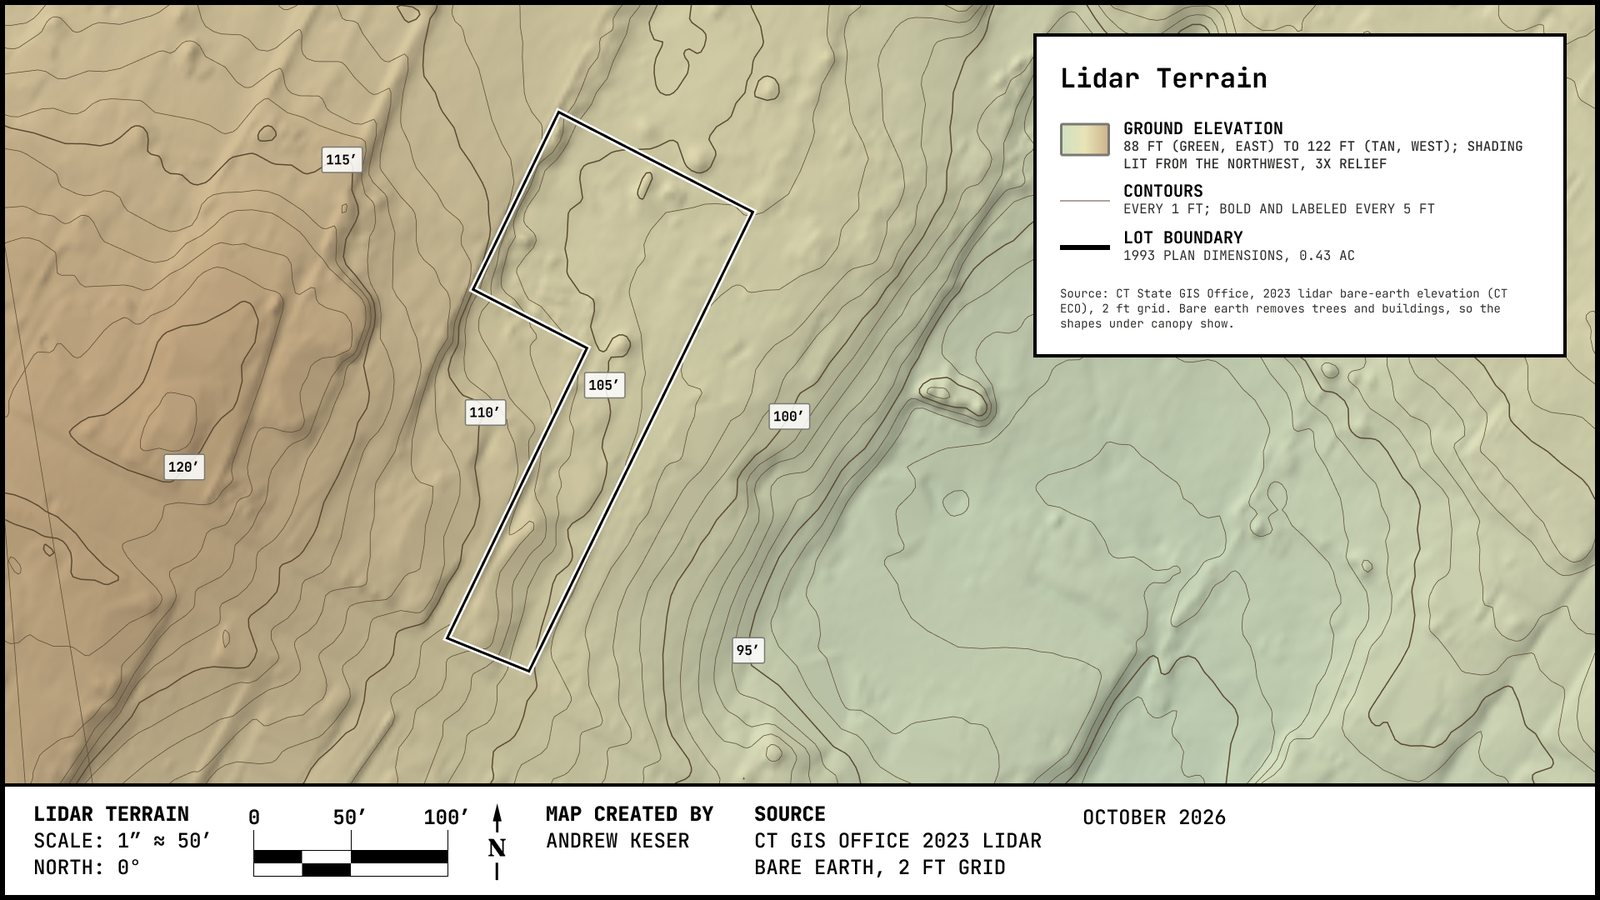
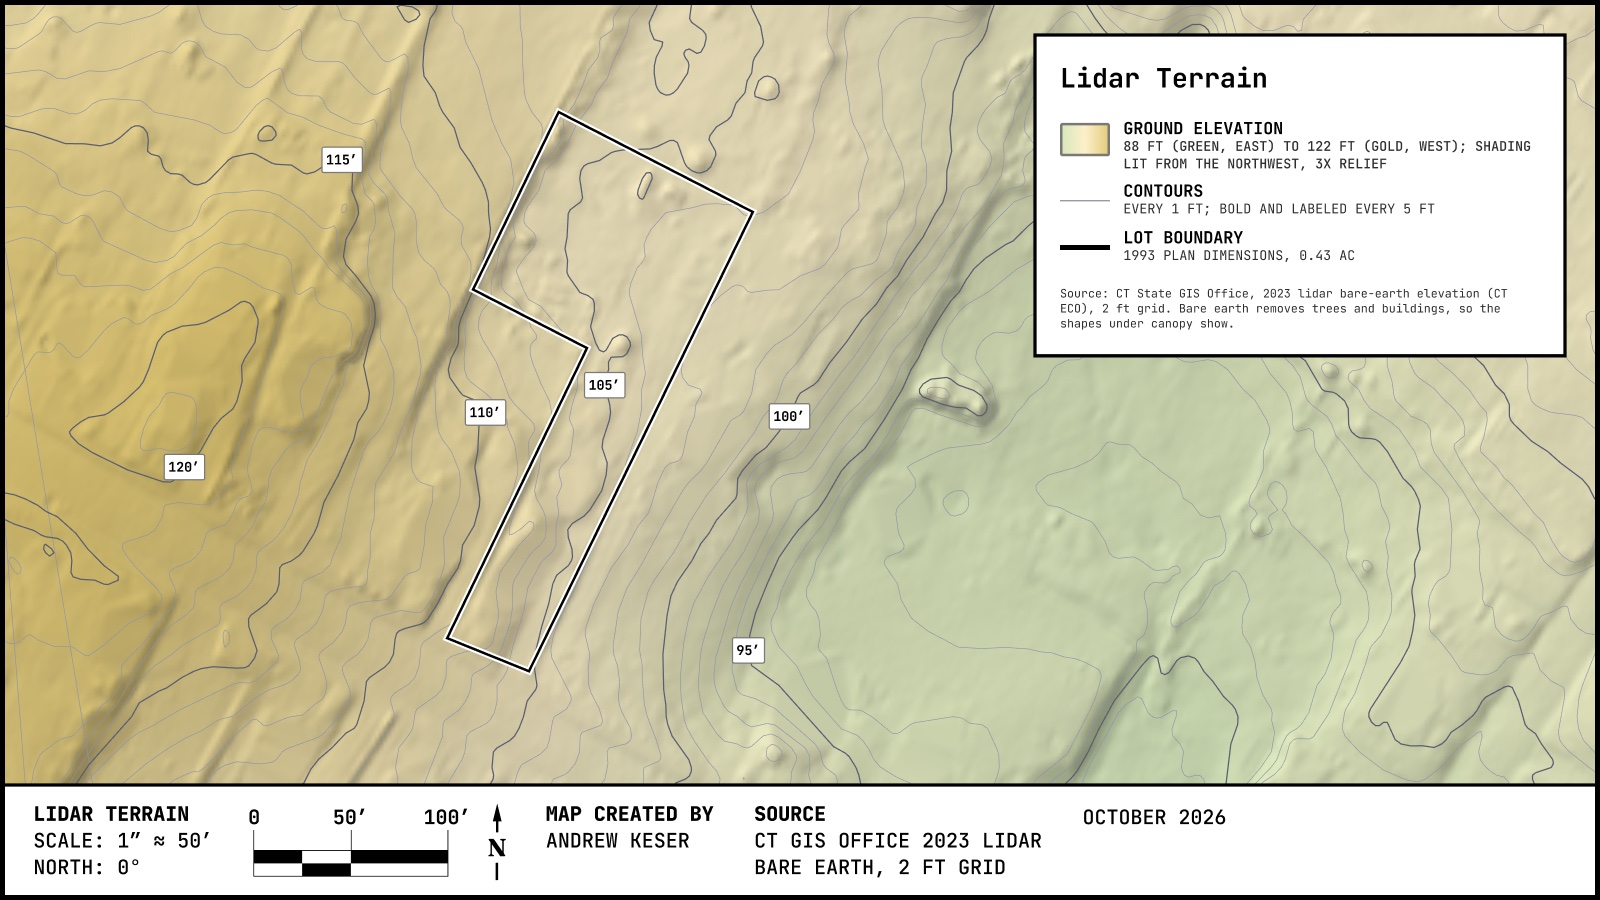
Map Semantic tokens: one color per map scale for rasters and keys
tokens/map.json mirrors Figma's new Map Semantic collection (sun, vigor,
terrain scales aliased to the Ramps); tools/tokens.py resolves it for
Python renders. S1's elevation tint and contours move onto the Ramps.

diff --git a/tools/tests/test_tokens.py b/tools/tests/test_tokens.py
@@ -1,0 +1,54 @@
+import json
+import sys
+from pathlib import Path
+
+import pytest
+
+sys.path.insert(0, str(Path(__file__).resolve().parent.parent))
+
+import tokens
+
+
+def write_root(tmp_path, ramps, **collections):
+    d = tmp_path / "design-language/tokens"
+    d.mkdir(parents=True)
+    (d / "ramps.json").write_text(json.dumps(ramps))
+    for name, toks in collections.items():
+        (d / f"{name}.json").write_text(json.dumps({"tokens": toks}))
+    return tmp_path
+
+
+def test_single_mode_token_resolves_through_ramps_in_every_mode(tmp_path):
+    root = write_root(tmp_path, {"gold/100": "#f2dfa1"}, map={"sun/full-sun": "gold/100"})
+    assert tokens.rgb("map", "sun/full-sun", root=root) == (0xF2, 0xDF, 0xA1)
+    assert tokens.rgb("map", "sun/full-sun", "dark", root=root) == (0xF2, 0xDF, 0xA1)
+
+
+def test_two_mode_token_picks_the_mode(tmp_path):
+    root = write_root(tmp_path, {"sage/400": "#849f55", "sage/500": "#698436"},
+                      species={"layer/shrub": {"light": "sage/500", "dark": "sage/400"}})
+    assert tokens.hex("species", "layer/shrub", root=root) == "#698436"
+    assert tokens.hex("species", "layer/shrub", "dark", root=root) == "#849f55"
+
+
+def test_unknown_token_names_itself(tmp_path):
+    root = write_root(tmp_path, {}, map={})
+    with pytest.raises(KeyError, match="map: no token sun/nope"):
+        tokens.rgb("map", "sun/nope", root=root)
+
+
+def test_token_pointing_off_the_ramps_names_the_step(tmp_path):
+    root = write_root(tmp_path, {}, map={"terrain/high": "gold/950"})
+    with pytest.raises(KeyError, match="gold/950"):
+        tokens.rgb("map", "terrain/high", root=root)
+
+
+def test_every_map_token_resolves():
+    for name in json.loads((tokens.ROOT / "design-language/tokens/map.json").read_text())["tokens"]:
+        assert len(tokens.rgb("map", name)) == 3
+
+
+def test_map_tokens_match_the_rasters_they_replaced():
+    assert tokens.hex("map", "sun/shade") == "#414655"  # slate/700, shade_build's old SHADOW_RGB
+    assert tokens.hex("map", "vigor/dense") == "#516920"  # sage/600
+    assert tokens.hex("map", "terrain/contour-index") == "#595e72"  # slate/600, as on the terrain sheet

diff --git a/tools/tokens.py b/tools/tokens.py
@@ -1,0 +1,38 @@
+#!/usr/bin/env python3
+"""Read design-token colors for raster renders, resolved through the Ramps.
+
+    import tokens
+    tokens.rgb("map", "sun/full-sun")              # (242, 223, 161)
+    tokens.hex("species", "layer/shrub", "dark")   # "#849f55"
+
+A collection is design-language/tokens/<name>.json: {"tokens": {name: step}} for one mode, or
+{name: {"light": step, "dark": step}} for two. Each step is a key in ramps.json, which mirrors
+the Figma Ramps collection. Figma is the source of truth; these files mirror it so Python rasters
+and Figma keys share one color per meaning instead of copying hex.
+"""
+import json
+from functools import lru_cache
+from pathlib import Path
+
+ROOT = Path(__file__).resolve().parent.parent
+
+
+@lru_cache(maxsize=None)
+def _load(root, name):
+    return json.loads((Path(root) / "design-language/tokens" / f"{name}.json").read_text())
+
+
+def hex(collection, name, mode="light", root=ROOT):
+    toks = _load(root, collection)["tokens"]
+    if name not in toks:
+        raise KeyError(f"{collection}: no token {name}")
+    step = toks[name] if isinstance(toks[name], str) else toks[name][mode]
+    ramps = _load(root, "ramps")
+    if step not in ramps:
+        raise KeyError(f"{collection}: {name} points to {step}, which is not in ramps.json")
+    return ramps[step]
+
+
+def rgb(collection, name, mode="light", root=ROOT):
+    h = hex(collection, name, mode, root)
+    return tuple(int(h[i:i + 2], 16) for i in (1, 3, 5))

diff --git a/design-language/plans/2026-10-24-map-semantic-tokens.md b/design-language/plans/2026-10-24-map-semantic-tokens.md
@@ -1,0 +1,57 @@
+# Map Semantic tokens and token QA
+
+Status: built 2026-10-24.
+
+## Why
+
+A token QA after the context map set found map color scales defined as hex copies. The Python
+build scripts held one copy and the Figma keys another, with the Ramps step only in a comment. The
+sun-hours scale was written out twice (shade and roof solar), and S1's contours had already
+drifted: the map lines were `#5b4a32` and the key swatch `#5c4a33`. Neither color was on the Ramps.
+
+## Decisions
+
+| Question | Chosen | Why |
+|---|---|---|
+| Alias the other map color systems? | **Yes, for scales shared by a raster and a key, or by two sheets.** Not one token per map. | That is where copies drift. Per-map tokens would only rename the Ramps. |
+| External palettes (USDA hardiness zones, colors sampled from the 1990 CIR photo) | **Stay raw**, with their source noted | They describe outside data; snapping them to the Ramps would misrepresent it. |
+| S1 elevation tint (owner, 2026-10-24) | **Moves onto the Ramps:** sage/100 → gold/50 → gold/200 | Compared with sage/100 → gold/50 → amber/200 (high ground turns peach) and sage/50 → gold/100 → amber/100 (turns pink). gold/200 keeps the low-green, high-gold look closest to the old tan. |
+| Contour color | **Slate, as 28a already used:** 1 ft slate/400, index slate/600 | Two terrain sheets, one contour system. S1's brown was the outlier; dark gold/800 was considered and dropped so one token serves both sheets. |
+| Boundary lines in keys (R4–R7) | **Ramps primitives**, as other keys do: `neutral/Black`; faint "other areas" charcoal/400 (NA10 ecoregions charcoal/500) | Lines over imagery are `neutral/White` at reduced opacity; the key's grey stands in for that. A new Sheet `mark/secondary` was considered; existing keys bind primitives directly, so it wasn't added. |
+
+## Built
+
+- **Figma `Map Semantic`** collection (`VariableCollectionId:2030:2`, one mode, `Value`), 13 colors
+  aliased to the Ramps, scoped to fills and strokes, with WEB code syntax `var(--map-…)`:
+  - `sun/full-sun`, `part-sun`, `part-shade`, `shade`: gold/100, gold/300, slate/400, slate/700.
+  - `vigor/bare`, `sparse`, `moderate`, `dense`: charcoal/100, sage/100, sage/300, sage/600.
+  - `terrain/low`, `mid`, `high`: sage/100, gold/50, gold/200.
+  - `terrain/contour`, `contour-index`: slate/400, slate/600.
+- **Mirror:** `tokens/map.json`; `tools/tokens.py` resolves it (and `species.json`) through
+  `ramps.json` for raster renders; `tools/tests/test_tokens.py`.
+- **Lot 86 build scripts** (shade, roof solar, vegetation index, canopy height, S1) read colors by
+  token name. Every raster except S1 re-rendered byte-identical; the shade and imagery reports now
+  name the token instead of the Ramps step.
+- **Figma bindings:**
+  - The Sun Hours, Shadow Study, Roof Solar, Vegetation Index, Terrain and Lidar Terrain key
+    variants now use Map Semantic. S1's elevation swatch is a gradient with stops bound to
+    `terrain/*`.
+  - S1's and 28a's contours use `terrain/contour*`.
+  - The County, State, Region, Bioregion NA10 and CIR 1990 key lines use the Ramps (raw before).
+  - `map-site-marker` digits use `neutral/White`, and so do the label backgrounds on S1 and R7
+    (still 85%).
+- **S1 re-rendered** in Figma and on the microsite (`docs/assets/context-terrain.jpg`).
+
+## Left open (from the QA)
+
+- No variable outside Map Semantic has code syntax (170 of 183).
+- `neutral/White` and `neutral/Black` are scoped to every property; narrowing to fills and strokes
+  is safe once checked against effect bindings.
+- `check_chart_tokens.py` hard-codes chart hex pairs; `species.json` resolves through the Ramps,
+  which is the better pattern.
+- `palette_check.py` crashes without arguments instead of printing usage.
+- Older sheets still carry raw paints: 03/04 Watershed (45 each), 09.1 Sun path 3D scene (171),
+  02 Hardiness zone (USDA colors; stay raw by the rule above).
+- The CIR 1990 key swatches stay raw: they are sampled from the photo.
+- The sun-path preview image in the Lot 86 repo (`preview-*.jpg`, local check only) uses its own
+  season colors, not `Chart Semantic` `season/*`.

diff --git a/CLAUDE.md b/CLAUDE.md
@@ -31,7 +31,7 @@ settled.
   CT ECO imagery, lidar, and building layers into the site repo), `sun_arcs.py` (sun positions, a
   top-down sun-path projection, and a Google Earth camera model), `shade.py` (shadow masks, hours
   of direct sun, skyline profiles and roof solar access from a lidar surface), `imagery.py` (NDVI and color-infrared from 4-band imagery), `terrain.py` (hillshade, contours,
-  canopy height), and `tests/` (run `python3 -m pytest tools`).
+  canopy height), `tokens.py` (token colors for raster renders, resolved through the Ramps), and `tests/` (run `python3 -m pytest tools`).
 - `design-language/` — docs and history for the shared visual system. Figma is the source of truth.
   **Design-system specs and plans for the permaculture files are authored here** (decided 2026-10-13),
   not in any site repo.
@@ -61,6 +61,10 @@ settled.
 - **Species colors come from the `--species-*` tokens** in the same file. Their values live in
   `design-language/tokens/species.json` (Ramps steps per mode); `check_chart_tokens.py tokens`
   fails if the CSS drifts from it, and `tools/palette_check.py` validates the palette itself.
+- **Raster renders take colors from tokens, not hex.** A build script that colors a map raster calls
+  `tokens.rgb("map" | "species", name)`; the values live in `design-language/tokens/map.json` and
+  `species.json`, mirroring Figma's Map Semantic and Species collections. External palettes (USDA
+  zones, colors sampled from a photo) stay raw, with their source noted.
 - Anchor contracts: `sectors.html` links to `sun-solar.html#sun-path-charts` and `climate.html#wind`.
 - Demo tasks page (`project-plan.html`) is a hand-ported snapshot of the demo site's task data.
 

diff --git a/design-language/README.md b/design-language/README.md
@@ -42,6 +42,10 @@ plans refer to those pages by name.
 - **Charts:** "Chart Semantic" and "Chart Neutral" collections, mirrored for the microsite in
   `docs/assets/chart-tokens.css` and checked by `tools/check_chart_tokens.py`. History:
   `specs/2026-10-14-chart-tokens-design.md` and its plan.
+- **Map Semantic:** single-mode aliases to the Ramps for the map color scales that rasters and keys
+  share: `sun/*` (sun hours, roof solar), `vigor/*` (vegetation index), `terrain/*` (elevation tint,
+  contours). Mirrored in `tokens/map.json`; Python renders read it through `tools/tokens.py`, so a
+  raster and its key can't drift. History: `plans/2026-10-24-map-semantic-tokens.md`.
 - **Microsite:** the `.viz-root` pattern (light/dark aware, inline SVG, self-contained pages).
   See `microsite-patterns.md`.
 

diff --git a/design-language/plans/2026-10-23-context-map-set.md b/design-language/plans/2026-10-23-context-map-set.md
@@ -130,3 +130,6 @@ the owner wants road distance.
 - **R7 Bioregion (owner chose option A, 2026-10-24).** One Earth's NA10 is RESOLVE Ecoregions 2017
   #335, #338, #339 (CC BY 4.0), so R7 traces their union on Sentinel-2 cloudless 2016, 250 mi = 234 px.
   One Earth gets credit for the grouping and name; its own map image (sheet 01) stays unpublished.
+- **S1 on the Ramps (owner, 2026-10-24).** The elevation tint is now Map Semantic `terrain/low`, `mid`,
+  `high` (sage/100 → gold/50 → gold/200), and the contours are slate like 28a's. See
+  `2026-10-24-map-semantic-tokens.md`.
